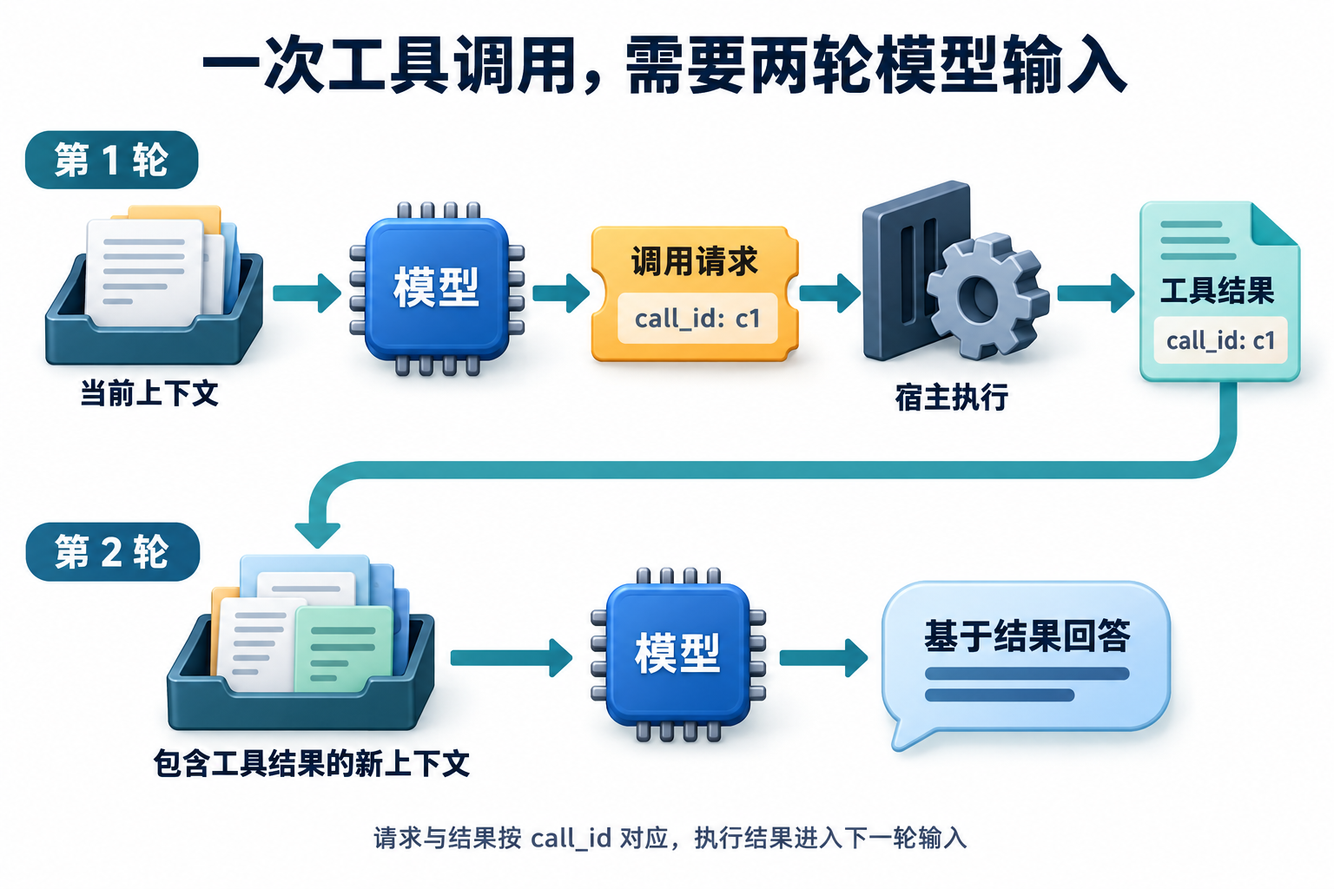
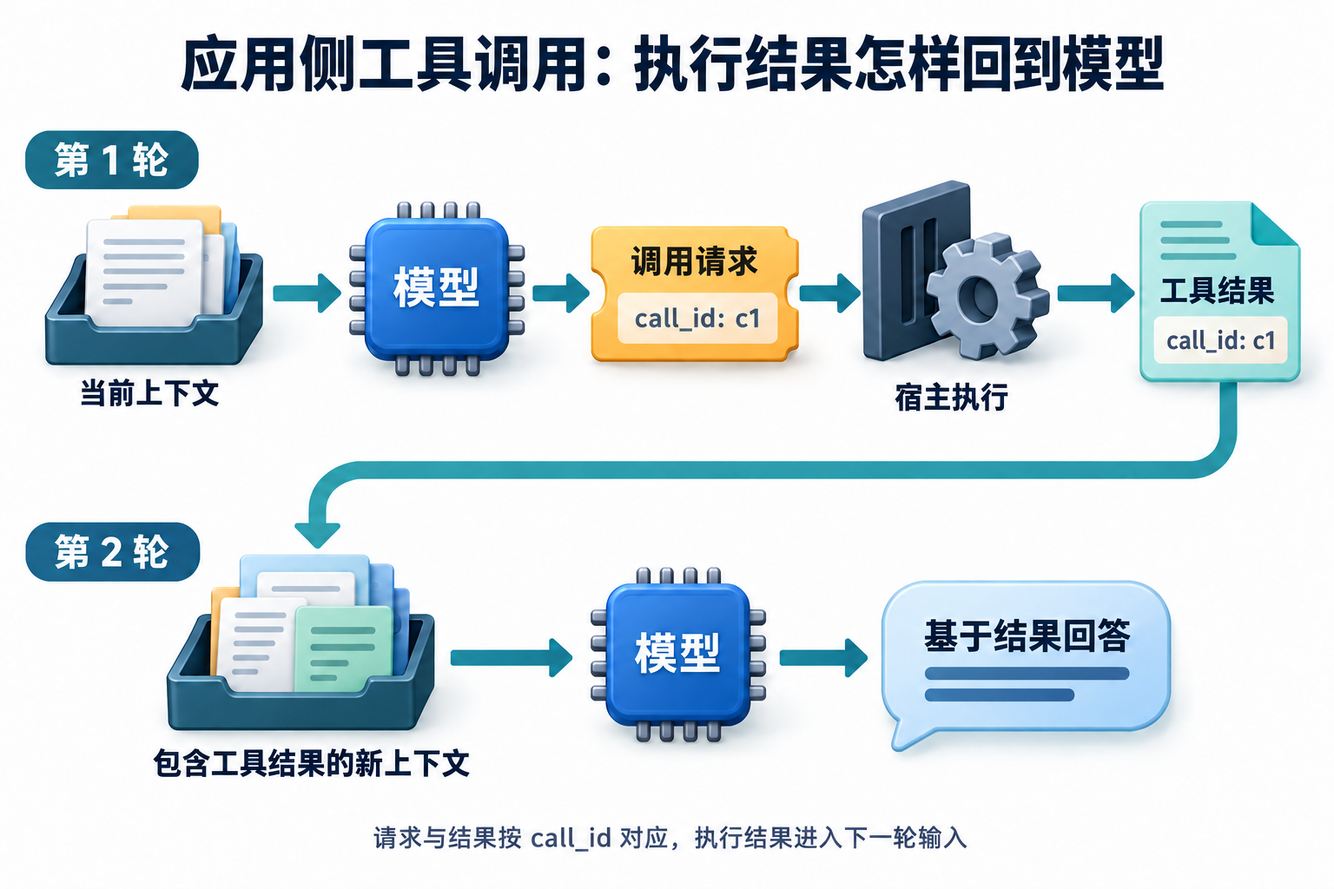
docs: resolve handbook content and diagram review findings

diff --git a/website/assets/stylesheets/reading.css b/website/assets/stylesheets/reading.css
@@ -128,6 +128,11 @@ textarea {
   letter-spacing: -0.02em;
 }
 
+/* Legacy anchors follow headings; leave room for a wrapped heading and header. */
+.md-typeset div[id]:empty {
+  scroll-margin-top: 8rem;
+}
+
 .md-typeset h2 {
   margin: 2.3em 0 1em;
   padding-bottom: 0.35em;

diff --git a/research/learning-redesign.md b/research/learning-redesign.md
@@ -1,6 +1,46 @@
 # 本轮学习内容改版与验证边界
 
-核对日期2026-10-30。改版以同一虚构政策案例串联概念、机制图、输入、实际观察和条件变化；保留原10章基础、12章进阶和92道题的ID与路径。概念学习从 [基础原理](../learning/README.md)开始，复习可以从 [Q001](../questions/Q001.md)进入，章节关系见 [知识主线](../learning/knowledge-map.md)；[一次完整任务](../learning/00-first-agent.md)和 [政策实验](../examples/policy_agent/README.md)作为动手选读。
+初次核对日期2026-10-30，最近复核2026-10-31。改版以同一虚构政策案例串联概念、机制图、输入、实际观察和条件变化；保留原10章基础、12章进阶和92道题的ID与路径。概念学习从 [基础原理](../learning/README.md)开始，复习可以从 [Q001](../questions/Q001.md)进入，章节关系见 [知识主线](../learning/knowledge-map.md)；[一次完整任务](../learning/00-first-agent.md)和 [政策实验](../examples/policy_agent/README.md)作为动手选读。
+
+## 2026-10-31 全面复核
+
+本次重新逐篇检查22章正文、Q001–Q092源文、目录与术语说明，目视核对14张PNG，并复跑代码与页面。检查按知识准确性、概念讲解、阅读顺序、图文一致、实验行为和页面交互分别进行，没有以此前的通过记录代替本轮检查。
+
+### 发现并修复的问题
+
+| 问题 | 影响 | 已完成的修复与位置 |
+| --- | --- | --- |
+| 审批后文档ACL撤权，恢复时仍按旧观察里的权限放行 | 实验行为与“执行前重验当前权限”不一致，可能仍创建工单 | [执行器](../examples/policy_agent/core.py)按当前文档授权元数据重筛旧观察；撤权后无新工单、无受限正文进入新上下文。另测新正文不会自动成为已观察证据，以及冲突引用不能绕过重验 |
+| 代码示例里的题号和二级标题参与读题；终端输出还会删掉示例里的HTML折叠标签 | 后续补充代码示例时可能制造伪题、截断答案或损坏示例 | [读题器](../scripts/study.py)在识别结构时屏蔽围栏、保留原文偏移；[回归测试](../tests/test_study.py)覆盖反引号、波浪线、嵌套短围栏与HTML样本 |
+| 首章先完整介绍四类能力，配图前又重新介绍一次 | 连续阅读重复起步，比较控制方式后又退回概览 | [基础01](../learning/01-system-map.md)调整为Agent定义→调用方式比较→四能力图解→组件专节；合并重复段落，保留独特知识、全部图表与旧标题锚点 |
+| 将检查点说成必然持久的本地快照；把会变化的下一步和证据称作不变量 | 容易误解内存后端的恢复范围、状态与不变量的区别 | [Q014](../questions/Q014.md)说明持久性由存储后端决定；[Q031](../questions/Q031.md)改为压缩后需保留或可回查的信息，与基础章节统一。参照[检查点后端说明](https://docs.langchain.com/oss/python/langgraph/persistence) |
+| JSON解析、Schema检查及工具定义外层字段混在一起 | 读者难以判断究竟是哪一层通过校验，MCP字段与实验字段也易混淆 | [基础03](../learning/03-context-and-prompts.md)、[基础05](../learning/05-tools-and-mcp.md)区分解析、字段约束、事实与授权，并解释`inputSchema`和实验`input_schema`的来源 |
+| 双时间表提前用后来才知道的信息覆盖旧认知 | 无法从原表还原“11月3日为何仍答600” | [进阶04](../advanced/04-memory-and-skills.md)分别保存最初认知、更正版本、业务有效区间及系统记录区间，复算历史规则与历史认知。参照[双时间模型](https://docs.xtdb.com/about/time-in-xtdb.html) |
+| 偏好样本比较时批准条件不同；将当前全失败说成后续采样必失败 | 容易构造不匹配的偏好对，或把有限观察过度推广 | [进阶12](../advanced/12-agent-training.md)、[Q090](../questions/Q090.md)固定相同输入比较候选，并区分结构性缺口与低概率成功。参照[DPO原论文](https://arxiv.org/html/2305.18290v3) |
+| 部分必要缩写只出现名字，没有足够的首次解释 | 独立阅读时仍可能卡在名词上 | 在相关位置补ACL、SSE、DAG、rollout、SFT/DPO/LoRA、ReAct及向量索引的最小机制说明；例如[Q045](../questions/Q045.md)、[Q047](../questions/Q047.md)、[Q021](../questions/Q021.md) |
+| G3图题把应用侧常见工具往返写成通用必要条件 | 单独看图时容易误以为所有工具都必须由应用发起两次模型输入 | 用内置imagegen修订[G3](../website/assets/diagrams/G3-tool-roundtrip.png)图题，嵌入处说明适用范围，保留调用标识和结果回传机制 |
+| 旧标题锚点仍存在，但跳转后标题被固定页头遮住 | 链接可达，却看不见正在阅读哪个小节 | [阅读样式](../website/assets/stylesheets/reading.css)为兼容锚点预留滚动间距，桌面与手机按实际标题位置验证 |
+
+### 本轮验收
+
+| 检查 | 结果与范围 |
+| --- | --- |
+| 单元与故障回归 | 159项通过，新增围栏解析、终端示例保留及对象ACL变化的回归 |
+| 政策任务 | 22/22离线验收通过；撤权反例为拒绝写入、创建对象数0，受限旧正文未进入新上下文 |
+| 公开实验与命令 | 数学、执行器、进阶机制三组实验，以及抽题和阅读命令通过；未调用付费模型 |
+| 图像文件 | 14对SVG与14张PNG的结构、校验和、尺寸检查通过，G3另做逐字与流程目视检查 |
+| 生成与站点 | 92篇独立题解同步，严格构建及164个HTML页面的本地链接与锚点检查通过 |
+| 浏览器 | 123个页面在360px和1440px下逐页检查，另查9个入口页的768px布局，共255组；另检查6组旧标题跳转位置、中文搜索、键盘折叠、手机导航、原图往返与深色模式 |
+
+原始本地日志、反例与截图保存在`.local/final-review/`，不提交私人运行产物。上述数量描述实际检查覆盖，不代表知识、模型能力或读者理解已被全部证明。
+
+### 结论与尚未验证的效果
+
+目前的知识结构可以沿“理解机制→看例子→复述与变式练习”连续阅读，基础与进阶也有明确衔接。概念图、贯穿案例和独立题解是现有内容的长处。本次主要修复的是重复、术语断层、机制样例和实验行为，没有把增加篇幅当成改进本身。
+
+仍不能据此宣称“新手一定能读懂”或“更能吸引读者”。本仓库尚无真实读者试读、阅读完成率或留存数据；离线策略、模拟工具与程序测试也不能证明真实模型的任务成功率。后续应按本文末尾的试读方法记录具体卡点，再决定是否拆章或增加图解。Q011还可选配一张节点与条件边的状态转换图；现有图用于解释状态与上下文范围，正文已说明其含义。
+
+本节记录本轮发现；下方保留此前改版的采用依据、历史检查与实验范围。
 
 ## 独立题文与知识主线
 

diff --git a/diagrams/imagegen-prompts.md b/diagrams/imagegen-prompts.md
@@ -6,7 +6,7 @@
 
 统一视觉方向：白底、深蓝中文标签、蓝绿部件与少量橙色强调；用文档、芯片、工具和档案等具体物体解释关系，避免大段文字挤在图片中。
 
-生成时间：2026-10-30。文件与主题见 [清单](imagegen-manifest.json)。生成模型存在随机性，提示词用于记录设计意图，不保证重新生成时像素一致。
+生成时间：2026-10-30；G3 标题修订：2026-10-31。文件与主题见 [清单](imagegen-manifest.json)。生成模型存在随机性，提示词用于记录设计意图，不保证重新生成时像素一致。
 
 ## C1
 
@@ -72,7 +72,17 @@ Style: polished editorial textbook infographic, white canvas, dark navy clean Ch
 
 ```text
 Use case: scientific-educational. Asset type: Chinese Agent learning handbook inline technical teaching illustration, landscape 3:2.
-Style: polished editorial textbook infographic, white canvas, dark navy clean Chinese sans-serif, teal and muted blue with restrained amber accents. Meaningful illustrated objects such as document cards, chips, folders, magnifying glasses and plugs with slight depth and soft shadows; precise bold directional arrows; plentiful whitespace. Clear hierarchy, large readable Chinese labels. More than just boxes of text, but technical connections take priority over decoration. No robots, human brains, glowing circuitry, logos, watermark, fake English, crowded paragraphs or tiny labels. No real people's names. All specified Chinese text verbatim. Keep generous safe margins and avoid cropped objects. Only add the short labels specified. Title: "一次工具调用，需要两轮模型输入". Composition two horizontal lanes clearly labeled "第 1 轮" and "第 2 轮", separated by generous whitespace. Top lane: tray "当前上下文" → blue chip "模型" → amber ticket "调用请求" with exact code "call_id: c1" → gate and gear "宿主执行". At far right a small teal response document "工具结果" with the SAME exact code "call_id: c1". Solid path from execution to result. From this result one prominent downward and leftward returning arrow carries result into the second lane input tray "包含工具结果的新上下文". Bottom lane tray → blue chip "模型" → speech bubble "基于结果回答". Emphasize the second model call rather than a direct first-call answer. A small end footnote "请求与结果按 call_id 对应，执行结果进入下一轮输入". There must be exactly two model chips, one per lane, and exactly two occurrences of call_id: c1, no mismatched IDs. Do not send tool result directly to final answer.
+Style: polished editorial textbook infographic, white canvas, dark navy clean Chinese sans-serif, teal and muted blue with restrained amber accents. Meaningful illustrated objects such as document cards, chips, folders, magnifying glasses and plugs with slight depth and soft shadows; precise bold directional arrows; plentiful whitespace. Clear hierarchy, large readable Chinese labels. More than just boxes of text, but technical connections take priority over decoration. No robots, human brains, glowing circuitry, logos, watermark, fake English, crowded paragraphs or tiny labels. No real people's names. All specified Chinese text verbatim. Keep generous safe margins and avoid cropped objects. Only add the short labels specified. Title: "应用侧工具调用：执行结果怎样回到模型". This depicts an application-side tool interaction example, not a requirement that every tool needs two model calls. Composition two horizontal lanes clearly labeled "第 1 轮" and "第 2 轮", separated by generous whitespace. Top lane: tray "当前上下文" → blue chip "模型" → amber ticket "调用请求" with exact code "call_id: c1" → gate and gear "宿主执行". At far right a small teal response document "工具结果" with the SAME exact code "call_id: c1". Solid path from execution to result. From this result one prominent downward and leftward returning arrow carries result into the second lane input tray "包含工具结果的新上下文". Bottom lane tray → blue chip "模型" → speech bubble "基于结果回答". Emphasize the second model call rather than a direct first-call answer. A small end footnote "请求与结果按 call_id 对应，执行结果进入下一轮输入". There must be exactly two model chips, one per lane, and exactly two occurrences of call_id: c1, no mismatched IDs. Do not send tool result directly to final answer.
+```
+
+### G3 标题修订 · 2026-10-31
+
+使用内置 imagegen 的编辑模式，引用已有 `website/assets/diagrams/G3-tool-roundtrip.png`，替换顶部标题。保留图中两轮示例、调用关联字段、执行与返回路径；标题限定为应用侧工具调用，不将该示例推广为所有工具的必要条件。输出仍为1536×1024，无尺寸转换。人工逐字核对标题、全部中文标签、两处 `call_id: c1` 和底部说明；流程、配色与结构目视保持一致。生成编辑不保证未编辑区域像素完全一致。
+
+本次实际编辑提示词：
+
+```text
+Use case: text-localization. Edit target: the referenced existing PNG technical illustration, 1536 × 1024 pixels, opaque white background. Make exactly one local textual correction in the top title region. Replace the current title “一次工具调用，需要两轮模型输入” with the exact Chinese title “应用侧工具调用：执行结果怎样回到模型”. Render every Chinese character correctly, using the same dark navy bold Chinese sans-serif style and clean top alignment, adjusting only title font size or a sensible title line break if necessary to fit within the existing title area and safe margins. The new wording describes this depicted application-side tool interaction; do not state that all tools necessarily require two model calls. Preserve the entire illustration below the title: identical two horizontal lanes, two blue model chips, document trays, amber call request ticket, host execution gear and gate, tool result document, teal return arrow routing, bottom answer bubble, shadows, white background, colors, spacing, canvas dimensions and crop. Preserve all existing body text verbatim: “第 1 轮”, “当前上下文”, “模型”, “调用请求”, “call_id: c1”, “宿主执行”, “工具结果”, “call_id: c1”, “第 2 轮”, “包含工具结果的新上下文”, “模型”, “基于结果回答”, and footer “请求与结果按 call_id 对应，执行结果进入下一轮输入”. Exactly two occurrences of call_id: c1. Do not regenerate or redesign the body, change any arrows or labels, add objects or footnotes, translate text, or introduce any additional text. Change only the title. Keep output at the original 1536 × 1024.
 ```
 
 ## G4

diff --git a/docs/foundations/01-agent-and-llm.md b/docs/foundations/01-agent-and-llm.md
@@ -12,7 +12,7 @@
 
 **30–60 秒回答：**
 
-**Agent 是围绕目标，根据当前信息选择行动，再利用结果继续推进的系统。** 单次模型调用接收一次输入、产生一次响应；固定工作流主要由程序安排步骤和分支；Agent 则让模型根据中间观察动态决定下一步。它常用模型、工具、记忆和规划来完成工作，运行时负责把决定、实际执行和反馈连接起来。是否需要动态选择，要看任务的信息会怎样逐步出现。
+**智能体（Agent）是围绕目标，根据当前信息选择行动，再利用结果继续推进的系统。** 本题讨论以大语言模型（Large Language Model，LLM）为决策核心的 Agent。单次模型调用接收一次输入、产生一次响应；固定工作流主要由程序安排步骤和分支；Agent 则让模型根据中间观察动态决定下一步。它常用模型、工具、记忆和规划来完成工作，运行时负责把决定、实际执行和反馈连接起来。是否需要动态选择，要看任务的信息会怎样逐步出现。
 
 <details><summary>展开详细答案、图解、追问与案例</summary>
 
@@ -88,7 +88,7 @@
 
 工具描述会影响模型的选择。一个工具只写"查询数据"，读者也难判断它查的是员工、订单还是制度。改成"按城市和出差日期查询住宿标准，返回条款及生效时间"，使用范围就明确了。参数同样需要有清楚含义：出差日期与查询当天日期，可能指向不同版本的制度。
 
-读取和写入也有不同作用。查询资料让系统知道更多；创建工单会改变外部系统。它们适合分别提供接口，让选择动作时就能看清后果。工具数量增加后，还需要发现和连接这些能力。MCP 在这里提供协议层的组织方式，其角色与调用过程放在 [Q025：工具由谁执行](../../questions/Q025.md)和 [Q028：MCP的角色](../../questions/Q028.md)详细说明。
+读取和写入也有不同作用。查询资料让系统知道更多；创建工单会改变外部系统。它们适合分别提供接口，让选择动作时就能看清后果。工具数量增加后，还需要发现和连接这些能力。**MCP（Model Context Protocol，模型上下文协议）**在这里提供协议层的连接与交互约定，其角色与调用过程放在 [Q025：工具由谁执行](../../questions/Q025.md)和 [Q028：MCP的角色](../../questions/Q028.md)详细说明。
 
 检索又是工具中的一个常见方向。政策库怎样分段、怎样找到相关条款、怎样把资料交给生成步骤，属于 [Q017：RAG的作用](../../questions/Q017.md)。本章先记住：工具提供能力，实际执行带回观察，观察会影响下一步。
 
@@ -122,7 +122,7 @@
 
 规划首先把目标拆成可处理的子任务：确认出差条件，查询两地标准，最后综合比较。接着还要识别依赖。两地查询都需要共同的出差日期；综合回答则依赖两份查询结果。只列出几个动词，还没有说明工作之间的关系。
 
-有些应用先生成显式计划，再按计划执行。这样容易检查目标是否被覆盖，也便于理解当前进度。有些应用每取得一次观察，就决定下一步，常见的ReAct 组织方式会让推理与行动交替推进。显式计划与局部动态选择可以组合：先确定需要比较两地，再根据检索情况决定是否补查。[ReAct原论文](https://arxiv.org/abs/2210.03629)
+有些应用先生成显式计划，再按计划执行。这样容易检查目标是否被覆盖，也便于理解当前进度。有些应用每取得一次观察，就决定下一步；常见的 **ReAct** 名称取自 Reasoning（推理）与 Acting（行动），用来组织两者交替推进。显式计划与局部动态选择可以组合：先确定需要比较两地，再根据检索情况决定是否补查。[ReAct原论文](https://arxiv.org/abs/2210.03629)
 
 计划还会遇到新情况。查到的资料没有当前日期的版本，原定"直接比较"就需要延后，先寻找有效制度；用户更改目的地，也会改变相关工作。规划因而包括根据反馈更新后续步骤。已经适用的结果可以保留，依赖旧条件的部分再调整。
 
@@ -312,9 +312,9 @@
 
 **详细答案：**
 
-这几个词回答的维度不同。预训练描述模型从广泛数据学习规律的过程；SFT 用示范输入输出塑造目标行为；偏好优化利用候选之间的相对质量信息。讨论它们时，先说数据和目标，再说更新了什么参数，避免把一串名称背成固定产品流水线。
+这几个词回答的维度不同。预训练描述模型从广泛数据学习规律的过程；**SFT（Supervised Fine-Tuning，监督微调）**用示范输入输出塑造目标行为；偏好优化利用候选之间的相对质量信息，**DPO（Direct Preference Optimization，直接偏好优化）**是其中一种方法。讨论它们时，先说数据和目标，再说更新了什么参数，避免把一串名称背成固定产品流水线。
 
-LoRA 关注参数适配方式，常见做法冻结基础权重，训练低秩增量。它可以与某些微调目标组合，所以“采用 SFT 还是 LoRA”这个二选一少了一层条件：前者说明用示范学什么，后者说明怎样限制可训练的改变量。可训练参数少不意味着不需要高质量样本，也不能直接推导完整训练和部署一定省多少资源；仍需看任务、配置与测量口径。
+**LoRA（Low-Rank Adaptation，低秩适配）**关注参数适配方式，常见做法冻结基础权重，训练低秩增量。它可以与某些微调目标组合，所以“采用 SFT 还是 LoRA”这个二选一少了一层条件：前者说明用示范学什么，后者说明怎样限制可训练的改变量。可训练参数少不意味着不需要高质量样本，也不能直接推导完整训练和部署一定省多少资源；仍需看任务、配置与测量口径。
 
 应用选择从失败证据出发。新版制度没有进入输入，先修更新和检索；证据齐全却总漏员工类别，可以收集正确比较与澄清示范；候选都可读但质量偏好不同，再研究偏好数据。参数改动要记录模型、数据、训练配置和产物版本，用保留任务检查目标行为与基础能力，防止只在训练样本上变好。普通工具调用、写偏好记录和保存反馈只是运行时操作，只有实际训练流水线执行了参数更新，才有相应训练产物可验。
 

diff --git a/learning/01-system-map.md b/learning/01-system-map.md
@@ -6,15 +6,7 @@
 
 先抓住一个关系：**目标说明要完成什么，观察说明现在知道什么，行动负责取得新信息或改变环境。** 系统据此反复判断，直到完成任务、需要用户补充，或已经无法继续。能接着做事，靠的是这条反馈关系，不是把“请认真完成”写得更长。
 
-本章先解释这些概念和常见能力，再用政策助手把它们串起来。阅读不要求先运行代码；后面的 Python 小例子用于理解结构化输入。
-
-## 先建立整体认识
-
-可以从四类能力认识 Agent。**模型**把当前信息变成回答或下一步选择；**工具**把可用的查询、计算和操作能力提供给系统。模型提出调用某项能力，仍要由程序实际执行，才会取得结果。
-
-**记忆**负责保留之后还会用到的信息，让前后步骤接得上；**规划**负责组织步骤和依赖，知道哪些工作能先做、哪些必须等待。简单任务可能只用当前任务记录，也可能不需要单独生成一份长计划。
-
-把这些能力组织起来的程序叫**运行时（runtime）**：它准备输入、调用模型、检查并执行动作、保存结果，再安排继续或停止。**环境**则是系统实际读取或操作的对象。四类能力可以共享模型、代码和存储，不必先给每个名字租一台服务器。
+本章先比较“下一步由谁安排”，再从模型、工具、记忆和规划四类能力理解分工，最后用政策助手把它们串起来。阅读不要求先运行代码；后面的 Python 小例子用于理解结构化输入。
 
 ## 单次模型调用、固定工作流与 Agent 的区别
 
@@ -38,7 +30,11 @@
 
 ## 用一张图认识四类能力
 
-模型理解信息并提出决定，工具提供查询和操作能力，记忆保留前后步骤需要的信息，规划组织目标、子任务与依赖。下面先逐项解释，再看运行时怎样让它们配合。
+<div id="先建立整体认识"></div>
+
+可以从四类能力认识 Agent。**模型**把当前信息变成回答或下一步选择；**工具**提供查询、计算和操作能力。模型提出调用请求，仍要由程序实际执行，才会取得结果。
+
+**记忆**保留之后还会用到的信息，让前后步骤接得上；**规划**组织步骤和依赖，说明哪些工作能先做、哪些必须等待。简单任务可能只用当前任务记录，也不需要单独生成一份长计划。四类能力可以共享模型、代码和存储，不必拆成四个独立模块或进程。
 
 
 ![Agent的常见能力关系：模型作出选择，工具连接外部能力，记忆提供可用信息，规划组织目标和步骤](../website/assets/diagrams/concepts/C1-capability-map.png)
@@ -88,7 +84,7 @@
 
 工具描述会影响模型的选择。一个工具只写"查询数据"，读者也难判断它查的是员工、订单还是制度。改成"按城市和出差日期查询住宿标准，返回条款及生效时间"，使用范围就明确了。参数同样需要有清楚含义：出差日期与查询当天日期，可能指向不同版本的制度。
 
-读取和写入也有不同作用。查询资料让系统知道更多；创建工单会改变外部系统。它们适合分别提供接口，让选择动作时就能看清后果。工具数量增加后，还需要发现和连接这些能力。MCP 在这里提供协议层的组织方式，其角色与调用过程放在 [第05章：工具与MCP](05-tools-and-mcp.md)详细说明。
+读取和写入也有不同作用。查询资料让系统知道更多；创建工单会改变外部系统。它们适合分别提供接口，让选择动作时就能看清后果。工具数量增加后，还需要发现和连接这些能力。**MCP（Model Context Protocol，模型上下文协议）**在这里提供协议层的连接与交互约定，其角色与调用过程放在 [第05章：工具与MCP](05-tools-and-mcp.md)详细说明。
 
 检索又是工具中的一个常见方向。政策库怎样分段、怎样找到相关条款、怎样把资料交给生成步骤，属于 [第06章：RAG与检索](06-rag-and-retrieval.md)。本章先记住：工具提供能力，实际执行带回观察，观察会影响下一步。
 
@@ -130,13 +126,13 @@
 
 ## 运行时与环境：让能力真正协作
 
-前面解释了系统具备哪些能力，现在看它们怎样接在一起。运行时是负责组织执行的程序：准备本轮输入，调用模型，接收动作请求，执行工具，记录返回结果，再安排继续或结束。框架可以封装其中一些步骤，应用也可以自己实现。
+前面解释了系统具备哪些能力，现在看它们怎样接在一起。**运行时（runtime）**是负责组织执行的程序：准备本轮输入，调用模型，接收动作请求，检查并执行工具，保存状态与返回结果，再安排继续或结束。框架可以封装其中一些步骤，应用也可以自己实现。
 
 ![运行时包含输入组织、决策调用、执行与状态更新；文档库、服务和用户是通过工具或消息交互的环境](../website/assets/diagrams/concepts/C6-runtime-boundary.png)
 
 [查看原图](../website/assets/diagrams/concepts/C6-runtime-boundary.png)
 
-环境指系统实际交互的对象。对政策助手来说，制度库提供资料，用户补充条件，工单服务保存申请。环境会返回新信息，也可能发生变化。模型依据输入作出的决定，需要通过工具和消息才能作用到这些对象。
+**环境**指系统实际读取、操作或交互的对象。对政策助手来说，制度库提供资料，用户补充条件，工单服务保存申请。环境会返回新信息，也可能发生变化。模型依据输入作出的决定，需要通过工具和消息才能作用到这些对象。
 
 这就把能力视角和落地视角接起来了：模型、工具、记忆、规划说明系统怎样完成工作；运行时说明谁组织这项工作；环境说明工作发生在哪里。它们可以共享进程或存储，逻辑职责仍能分别解释。
 

diff --git a/questions/Q001.md b/questions/Q001.md
@@ -6,7 +6,7 @@
 
 ## 简要回答
 
-**Agent 是围绕目标，根据当前信息选择行动，再利用结果继续推进的系统。** 单次模型调用接收一次输入、产生一次响应；固定工作流主要由程序安排步骤和分支；Agent 则让模型根据中间观察动态决定下一步。它常用模型、工具、记忆和规划来完成工作，运行时负责把决定、实际执行和反馈连接起来。是否需要动态选择，要看任务的信息会怎样逐步出现。
+**智能体（Agent）是围绕目标，根据当前信息选择行动，再利用结果继续推进的系统。** 本题讨论以大语言模型（Large Language Model，LLM）为决策核心的 Agent。单次模型调用接收一次输入、产生一次响应；固定工作流主要由程序安排步骤和分支；Agent 则让模型根据中间观察动态决定下一步。它常用模型、工具、记忆和规划来完成工作，运行时负责把决定、实际执行和反馈连接起来。是否需要动态选择，要看任务的信息会怎样逐步出现。
 
 
 
@@ -82,7 +82,7 @@
 
 工具描述会影响模型的选择。一个工具只写"查询数据"，读者也难判断它查的是员工、订单还是制度。改成"按城市和出差日期查询住宿标准，返回条款及生效时间"，使用范围就明确了。参数同样需要有清楚含义：出差日期与查询当天日期，可能指向不同版本的制度。
 
-读取和写入也有不同作用。查询资料让系统知道更多；创建工单会改变外部系统。它们适合分别提供接口，让选择动作时就能看清后果。工具数量增加后，还需要发现和连接这些能力。MCP 在这里提供协议层的组织方式，其角色与调用过程放在 [Q025：工具由谁执行](Q025.md)和 [Q028：MCP的角色](Q028.md)详细说明。
+读取和写入也有不同作用。查询资料让系统知道更多；创建工单会改变外部系统。它们适合分别提供接口，让选择动作时就能看清后果。工具数量增加后，还需要发现和连接这些能力。**MCP（Model Context Protocol，模型上下文协议）**在这里提供协议层的连接与交互约定，其角色与调用过程放在 [Q025：工具由谁执行](Q025.md)和 [Q028：MCP的角色](Q028.md)详细说明。
 
 检索又是工具中的一个常见方向。政策库怎样分段、怎样找到相关条款、怎样把资料交给生成步骤，属于 [Q017：RAG的作用](Q017.md)。本章先记住：工具提供能力，实际执行带回观察，观察会影响下一步。
 
@@ -116,7 +116,7 @@
 
 规划首先把目标拆成可处理的子任务：确认出差条件，查询两地标准，最后综合比较。接着还要识别依赖。两地查询都需要共同的出差日期；综合回答则依赖两份查询结果。只列出几个动词，还没有说明工作之间的关系。
 
-有些应用先生成显式计划，再按计划执行。这样容易检查目标是否被覆盖，也便于理解当前进度。有些应用每取得一次观察，就决定下一步，常见的ReAct 组织方式会让推理与行动交替推进。显式计划与局部动态选择可以组合：先确定需要比较两地，再根据检索情况决定是否补查。[ReAct原论文](https://arxiv.org/abs/2210.03629)
+有些应用先生成显式计划，再按计划执行。这样容易检查目标是否被覆盖，也便于理解当前进度。有些应用每取得一次观察，就决定下一步；常见的 **ReAct** 名称取自 Reasoning（推理）与 Acting（行动），用来组织两者交替推进。显式计划与局部动态选择可以组合：先确定需要比较两地，再根据检索情况决定是否补查。[ReAct原论文](https://arxiv.org/abs/2210.03629)
 
 计划还会遇到新情况。查到的资料没有当前日期的版本，原定"直接比较"就需要延后，先寻找有效制度；用户更改目的地，也会改变相关工作。规划因而包括根据反馈更新后续步骤。已经适用的结果可以保留，依赖旧条件的部分再调整。
 

diff --git a/learning/05-tools-and-mcp.md b/learning/05-tools-and-mcp.md
@@ -22,7 +22,7 @@
 
 本章先以应用侧函数工具为例：查政策、读取订单或创建申请。模型接收名称、用途和参数说明，提出“调用哪个工具、传什么参数”，宿主程序执行。供应商托管工具则可能由平台运行时执行；例如当前 Claude 文档区分 client tools 与 server tools。要分清模型产生调用意图和执行器执行动作，执行器的位置依部署而异。[Claude 工具调用概览](https://platform.claude.com/docs/en/agents-and-tools/tool-use/overview)
 
-`inputSchema` 是工具说明中的输入结构字段，描述城市应是字符串、日期应是指定格式、哪些参数必填等规则。它帮助程序识别结构错误；城市是否存在、用户是否有权查该对象，仍属于后续业务校验。
+在 MCP 工具声明中，`inputSchema` 是描述输入结构的字段，例如城市应是字符串、日期应是指定格式、哪些参数必填。它帮助程序识别结构错误；城市是否存在、用户是否有权查该对象，仍属于后续业务校验。
 
 MCP 的工具接口同样包含输入 schema，接入时要核对服务与校验器支持的版本、关键字或子集。通用语法能表达一项约束，不代表当前接入层已经执行了它；城市、日期、证据和对象权限也各有业务检查。[MCP 工具规范](https://modelcontextprotocol.io/specification/2025-11-25/server/tools)
 
@@ -49,6 +49,8 @@ MCP 的工具接口同样包含输入 schema，接入时要核对服务与校验
 ## 一份完整的只读工具合同
 
 下例对应政策实验的`search_policy`。本地实现将query作为topic精确匹配，住宿传`lodging`；schema枚举列出固定主题键，其他值在执行前拒绝。城市也需匹配固定资料，不能把这个有限读取器当自然语言或语义搜索。它把业务参数与运行时可信身份分开；schema描述结构，Python另验日期、字段和权限。
+
+下面采用实验工具定义的字段名 `input_schema`；MCP 工具声明对应的字段名是 `inputSchema`。二者都描述输入约束，但外层协议格式不同，不能把下列对象直接当作 MCP 消息发送。
 
 ```json
 {
@@ -146,6 +148,8 @@ MCP 的工具接口同样包含输入 schema，接入时要核对服务与校验
 ![G3：工具调用、运行时执行、结果关联和下一次输入](../website/assets/diagrams/G3-tool-roundtrip.png)
 
 [查看原图](../website/assets/diagrams/G3-tool-roundtrip.png)
+
+该图展示应用侧工具执行后，再请求模型处理结果的常见两轮模式，不是所有工具的固定请求次数。多个调用可共享后续模型输入；供应商托管工具也可在平台内部完成往返，应用只看到一次 API 响应。
 
 模型或策略只有取得结果后才能有新证据。[完整实现与返回合同](../examples/policy_agent/README.md)；新实验实现本地函数工具，下面的MCP图用于协议职责教学，不表示它已运行MCP Server。
 

diff --git a/docs/foundations/03-rag-and-search.md b/docs/foundations/03-rag-and-search.md
@@ -196,6 +196,8 @@
 
 先固定向量、距离定义和可见集合，再做精确搜索作为近邻质量基线。精确最近邻表示按该表示和距离找到了目标集合，不等于找到了业务上全部相关证据；embedding 本身仍可能遗漏否定、编号或条件。近似索引减少搜索工作，通常以部分近邻覆盖取舍换取速度。比较时不能一边更换编码模型，一边调整索引，再把全部变化归因于 ANN 参数。
 
+先认识这两个索引名：**HNSW** 用多层邻近图组织向量，查询沿图寻找候选；**IVFFlat** 把向量分到多组列表，查询时优先扫描较接近问题向量的部分列表。本题只用它们说明搜索范围与资源的取舍，不要求先掌握完整算法。[pgvector 索引机制](https://github.com/pgvector/pgvector#indexing)
+
 HNSW 与 IVFFlat 等具体实现在构建、内存与查询开销上不同，参数也影响扫描范围和结果。应按实际语料、过滤选择率与并发测量延迟分布、内存、构建和更新成本，并对照精确 Top-10 的重合。预先规定同分处理，必要时承认多组等价近邻，避免边界并列导致表面差异。索引近邻覆盖与人工相关性指标分别报告，不能把二者都叫答案召回率。
 
 过滤与近似搜索的组合尤其需要实测。pgvector 文档描述某些近似路径先扫描索引再过滤，严格条件下可能不足要求的数量；迭代扫描可以继续寻找候选，但仍受扫描限制。这是具体实现的执行行为，不能推广到所有向量库。可以比较提高扫描预算、分区或其他索引策略的成本，但任何性能优化都不能把无权正文先交给模型。最终还要在同一查询集检查答案，因为多找回近邻未必补到决定性条款。
@@ -256,7 +258,7 @@ A 用户失去一份政策附录权限，源文件已不可读，但结果缓存
 
 **常见误区：**
 
-让模型自行判断机密等级；只删源文件或向量；以 OAuth 已登录为由跳过对象检查，或用高权限数据库角色宣称 RLS 已生效。
+让模型自行判断机密等级；只删源文件或向量；以已取得 OAuth（委托授权）访问令牌为由跳过对象检查，或用高权限数据库角色宣称行级安全（RLS）已生效。OAuth 令牌不等于一份允许访问所有对象的登录证明。
 
 **微练习：**
 

diff --git a/learning/04-agent-loop.md b/learning/04-agent-loop.md
@@ -32,6 +32,8 @@
 
 [查看原图](../website/assets/diagrams/G3-tool-roundtrip.png)
 
+图示应用侧工具返回后，再让模型处理结果的两轮模式。它不是每个工具必然增加两次外部模型请求的计费规则；托管工具可在平台内部执行，多个调用也可共享后续输入。下面的离线政策实验使用规则策略，不发出模型请求。
+
 [政策实验](../examples/policy_agent/README.md)把策略输入限制为目标、条件、未知项和已经取得的可见观察；task_id、故障标签和标准答案不进入策略。同一任务可以因观察不同而走出不同路径。
 
 这里的**决策策略（policy）** 指“下一步怎样选择”的规则或模型，与案例中的报销制度文件不是同一个概念。下面按实际输入和观察，逐项判断合法下一步：
@@ -46,9 +48,11 @@
 
 这与下面旧lab的固定脚本用途不同：旧lab用于隔离测试执行边界，新实验用于观察依赖的规则决策。完整运行命令和三个过程见 [00 首次任务](00-first-agent.md)。两者都不是对真实模型能力的测量。
 
-循环还需保存`pending_calls`和下一待执行索引。暂停后恢复，不应重新执行已有结果，也不能把累计六次决策预算重置。可恢复不等于允许无限重试。
+本政策实验用`pending_calls`（待执行调用）和下一待执行索引保存调用队列位置。暂停后恢复，应复用已确认的结果；结果未知的写入先查询或对账，不能仅凭队列位置判断是否重做。累计六次决策预算也不能重置。其他运行时可以采用不同状态结构，可恢复不等于允许无限重试。
 
-## 当前实验中谁在做什么
+<div id="当前实验中谁在做什么"></div>
+
+## 旧执行器实验中谁在做什么
 
 打开 `lab.py`，先读 `Action`、`Finish`、`State` 和 `RunResult`。`Action` 保存工具名与参数；`Finish` 表示策略希望结束；`State.observations` 保存已成功取得的工具结果；`RunResult` 汇总停止原因、事件与尝试次数。
 
@@ -60,7 +64,7 @@
 
 ## worked example：沿一次真实 trace 走到底
 
-在仓库根目录执行：
+以下回到旧执行器实验 `agent_lab/lab.py`，与前面的政策实验使用不同的事件名和计数。在仓库根目录执行：
 
 ```bash
 python3 examples/agent_lab/lab.py --scenario happy

diff --git a/questions/Q005.md b/questions/Q005.md
@@ -12,9 +12,9 @@
 
 ## 详细解析
 
-这几个词回答的维度不同。预训练描述模型从广泛数据学习规律的过程；SFT 用示范输入输出塑造目标行为；偏好优化利用候选之间的相对质量信息。讨论它们时，先说数据和目标，再说更新了什么参数，避免把一串名称背成固定产品流水线。
+这几个词回答的维度不同。预训练描述模型从广泛数据学习规律的过程；**SFT（Supervised Fine-Tuning，监督微调）**用示范输入输出塑造目标行为；偏好优化利用候选之间的相对质量信息，**DPO（Direct Preference Optimization，直接偏好优化）**是其中一种方法。讨论它们时，先说数据和目标，再说更新了什么参数，避免把一串名称背成固定产品流水线。
 
-LoRA 关注参数适配方式，常见做法冻结基础权重，训练低秩增量。它可以与某些微调目标组合，所以“采用 SFT 还是 LoRA”这个二选一少了一层条件：前者说明用示范学什么，后者说明怎样限制可训练的改变量。可训练参数少不意味着不需要高质量样本，也不能直接推导完整训练和部署一定省多少资源；仍需看任务、配置与测量口径。
+**LoRA（Low-Rank Adaptation，低秩适配）**关注参数适配方式，常见做法冻结基础权重，训练低秩增量。它可以与某些微调目标组合，所以“采用 SFT 还是 LoRA”这个二选一少了一层条件：前者说明用示范学什么，后者说明怎样限制可训练的改变量。可训练参数少不意味着不需要高质量样本，也不能直接推导完整训练和部署一定省多少资源；仍需看任务、配置与测量口径。
 
 应用选择从失败证据出发。新版制度没有进入输入，先修更新和检索；证据齐全却总漏员工类别，可以收集正确比较与澄清示范；候选都可读但质量偏好不同，再研究偏好数据。参数改动要记录模型、数据、训练配置和产物版本，用保留任务检查目标行为与基础能力，防止只在训练样本上变好。普通工具调用、写偏好记录和保存反馈只是运行时操作，只有实际训练流水线执行了参数更新，才有相应训练产物可验。
 
